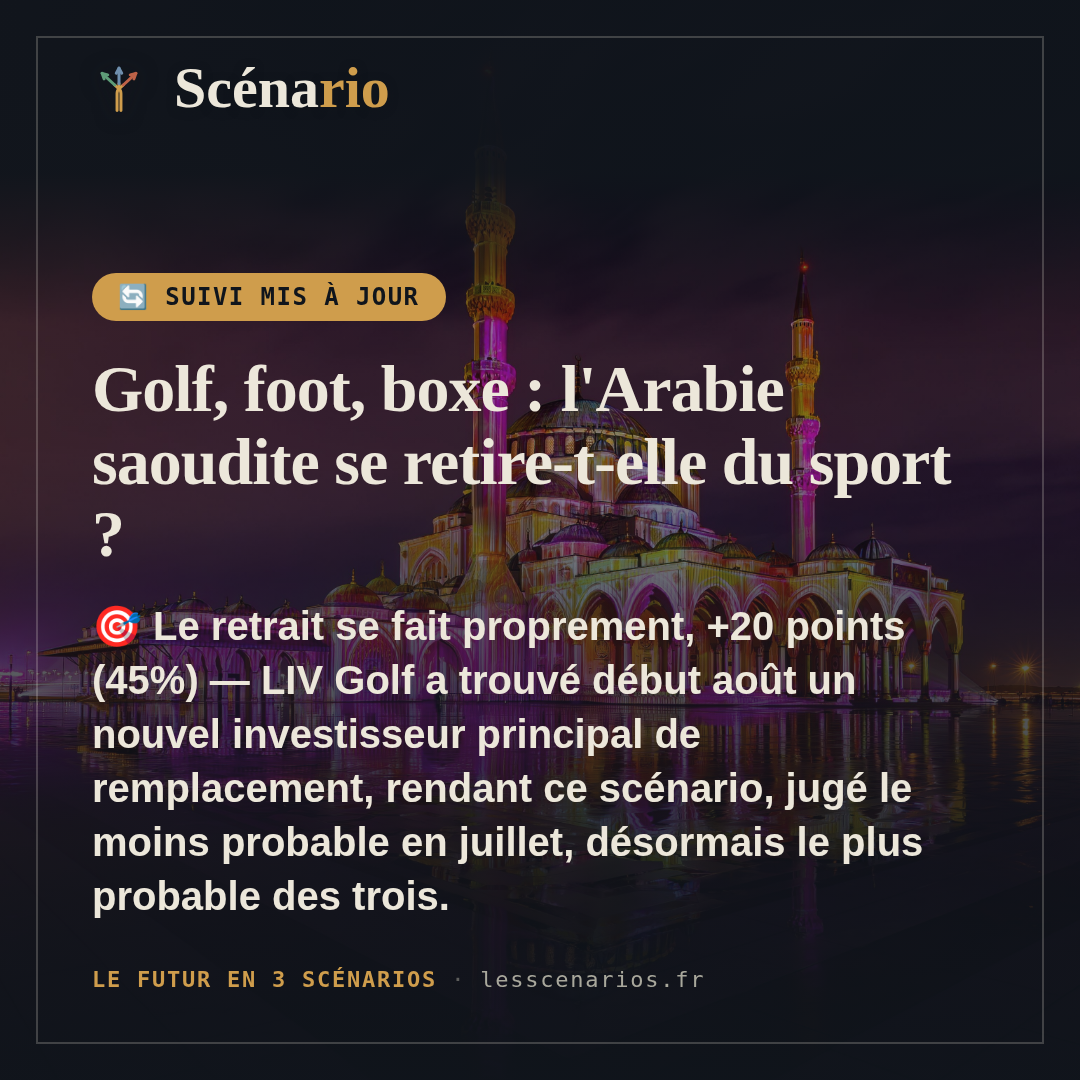
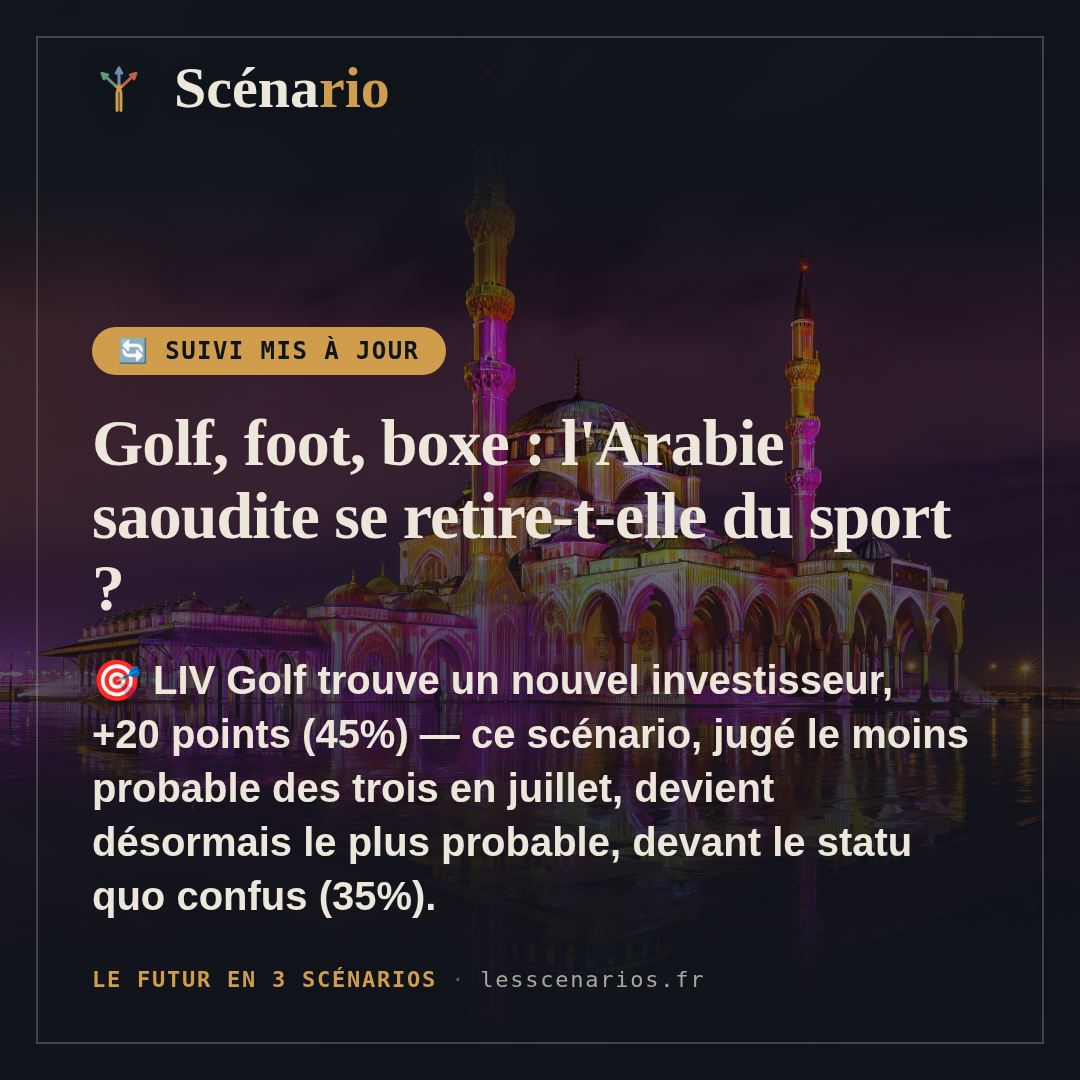
suivi: conclusion reformulée pour démarrer par le fait concret
Retour utilisateur : ouvrir la conclusion par le titre du scénario
lui-même ('Le retrait se fait proprement') reste incompréhensible
hors contexte, même si ce n'est pas l'étiquette de catégorie brute
déjà proscrite le 14 août. Corrigé sur suivi/arabie-saoudite-sport.html
et l'item feed-suivi.xml correspondant (comments/description),
image régénérée en conséquence. Règle documentée dans
docs/ARCHITECTURE.md et répercutée dans
docs/routine-detection-prompt.md pour les prochains passages.

docs: bug filterDateFrom/filterDateTo identiques sur RSS SUIVI/PUB

Les deux bornes de date des modules RSS SUIVI (id 30) et RSS PUB
(id 58) avaient été mises à la même formule le 15 août, créant un
intervalle de largeur nulle (comparaison datetime exacte) qui bloque
silencieusement tous les items. Fix documenté : filterDateTo passe de
addDays(now;-1) à now (retrait du -1 seulement), à appliquer à la main
côté Make sur les deux modules.

Claude-Session: https://claude.ai/code/session_01D2nS1gLX5PNp2scy18i4Cd

Changed region(s): [[0.0611, 0.2444, 0.9167, 0.8556]]

diff --git a/suivi/arabie-saoudite-sport.html b/suivi/arabie-saoudite-sport.html
@@ -354,7 +354,7 @@
         </div>
         <div class="conclusion">
           <span class="conclusion-label">Conclusion vs V0</span>
-          <p><strong>🎯 Le retrait se fait proprement, +20 points (45%)</strong> — l'accord trouvé début août par LIV Golf pour un nouvel investisseur principal de remplacement rend ce scénario, jugé le moins probable en juillet, désormais le plus probable des trois, devant le statu quo confus (35%) ; nuance : l'identité de l'investisseur et le montant exact ne sont pas encore rendus publics, rien n'est formellement signé.</p>
+          <p><strong>🎯 LIV Golf trouve un nouvel investisseur, +20 points (45%)</strong> — l'accord annoncé début août (clôture visée en septembre) rend ce scénario, jugé le moins probable des trois en juillet, désormais le plus probable, devant le statu quo confus (35%) ; nuance : l'identité de l'investisseur et le montant exact ne sont pas encore rendus publics, rien n'est formellement signé.</p>
         </div>
         <p class="sources-note">Sources : <a href="https://www.skysports.com/golf/news/12176/13570123/liv-golf-reaches-agreement-with-new-lead-investor-after-saudi-pif-withdrew-funding-from-breakaway-league" target="_blank" rel="noopener noreferrer">Sky Sports ↗</a>, <a href="https://www.aljazeera.com/sports/2026/8/5/liv-golf-secures-lead-investor-for-player-driven-life-after-saudi-future" target="_blank" rel="noopener noreferrer">Al Jazeera ↗</a>, <a href="https://www.forbes.com/sites/break80/2026/08/05/liv-ceo-scott-oneil-says-liv-golf-has-secured-new-investor/" target="_blank" rel="noopener noreferrer">Forbes ↗</a>, <a href="https://www.proboxing-fans.com/alalshikh-denies-pif-spending-slowdown-in-boxing/" target="_blank" rel="noopener noreferrer">Proboxing-fans ↗</a></p>
         </div>

diff --git a/docs/routine-detection-prompt.md b/docs/routine-detection-prompt.md
@@ -35,7 +35,7 @@ Vérification des sujets à suivre pour le site Scénario (lesscenarios.fr, dép
    - Construire la liste des sujets **éligibles** parmi ceux marqués ⚠ aux points 2 et 3 : écart ≥ 20 points sur au moins un scénario, **ET dont le point de référence a plus de 10 jours** (date de la dernière version publiée pour un suivi actif, date de l'édition d'origine pour une entrée du journal) — **jamais un sujet dont le point de référence date de moins de 10 jours**, pour laisser le temps à un développement de se confirmer plutôt que de réagir à un pic de bruit médiatique.
    - Si la liste éligible est vide : ne rien publier, comportement inchangé (voir point 5).
    - Si elle contient un ou plusieurs sujets : choisir **un seul**, le plus crédible (qualité et croisement des sources, importance réelle du développement pour le sujet — pas seulement l'écart en points le plus large), et pour celui-là seulement :
-     - **Suivi actif** : ajouter une nouvelle version à `suivi/{sujet}.html` en suivant exactement la marche à suivre habituelle (voir `docs/ARCHITECTURE.md`, section « Pages de suivi par sujet ») — cartes `.mini-scenarios` avec `.evo-current`/`.evo-arrow`/`.evo-prev`, conclusion qui nomme le scénario le plus volatil avec son écart en points — jamais la seule étiquette de catégorie (favorable/stable/dégradé) en tête sans dire ce qu'elle recouvre concrètement, ex. "stable" seul ne veut rien dire, voir `docs/ARCHITECTURE.md` § « Pages de suivi par sujet » —, 2 à 4 sources réellement consultées (liens réels, jamais inventés) ; mettre à jour le badge et la date sur `archives.html` ; mettre à jour l'entrée dans « Suivis actifs » de `docs/sujets-a-suivre.md` (dernière vérification, prochaine échéance) ; ajouter un item dans `feed-suivi.xml`.
+     - **Suivi actif** : ajouter une nouvelle version à `suivi/{sujet}.html` en suivant exactement la marche à suivre habituelle (voir `docs/ARCHITECTURE.md`, section « Pages de suivi par sujet ») — cartes `.mini-scenarios` avec `.evo-current`/`.evo-arrow`/`.evo-prev`, conclusion qui nomme le scénario le plus volatil avec son écart en points. **La phrase de conclusion doit toujours démarrer par le fait concret** (l'événement réel qui explique le mouvement, ex. « LIV Golf a trouvé un nouvel investisseur principal »), **jamais par l'étiquette de catégorie brute** (favorable/stable/dégradé — "stable" seul ne veut rien dire) **ni par le titre du scénario lui-même** (souvent trop abstrait hors contexte, ex. « Le retrait se fait proprement » ne se comprend pas seul — affiné le 15 août après retour utilisateur) : nommer le scénario concerné et son écart en points seulement après avoir posé le fait, voir `docs/ARCHITECTURE.md` § « Pages de suivi par sujet » pour l'exemple complet ; 2 à 4 sources réellement consultées (liens réels, jamais inventés) ; mettre à jour le badge et la date sur `archives.html` ; mettre à jour l'entrée dans « Suivis actifs » de `docs/sujets-a-suivre.md` (dernière vérification, prochaine échéance) ; ajouter un item dans `feed-suivi.xml`.
      - **Entrée du journal sans page de suivi** : créer `suivi/{sujet}.html` à partir de `suivi/_gabarit.html` avec V0 (rappel de l'édition d'origine, mêmes 3 scénarios et pourcentages) + V1 (réestimation du jour), même rigueur que ci-dessus ; ajouter le badge + `data-last-update` sur l'entrée correspondante de `archives.html` ; ajouter le sujet aux « Suivis actifs » de `docs/sujets-a-suivre.md` et marquer sa ligne dans le journal (« a désormais sa page de suivi dédiée ») ; ajouter un item dans `feed-suivi.xml`.
      - **La clôture (🏁, voir point 2bis) n'est jamais publiée automatiquement**, même si le sujet retenu ci-dessus a par ailleurs un signal de clôture possible — seulement la signaler dans le message final (point 5). C'est le seul geste qui reste réservé à l'utilisateur, en session.
      - **L'item `feed-suivi.xml` inclut une balise `<enclosure>`** pointant vers une image générée avec le logo + un tag "🔄 Suivi mis à jour" + le sujet + la conclusion, composée sur `assets/social/topic-images/suivi-{sujet}.jpg` (mis à jour le 14 août — voir `docs/ARCHITECTURE.md` § « Annonce des mises à jour sur Telegram/LinkedIn » pour la commande exacte et le gabarit) : `python3 scripts/social/generate_suivi_image.py --data {topic+conclusion} --output assets/social/suivi/{sujet}-v{N}.png --template scripts/social/suivi-template.html --photo assets/social/topic-images/suivi-{sujet}.jpg` — uniquement si cette photo source existe déjà pour le sujet (créée à la création de la page de suivi, jamais choisie à cette étape) ; sinon omettre `<enclosure>` entièrement, jamais bloquant.

diff --git a/docs/ARCHITECTURE.md b/docs/ARCHITECTURE.md
@@ -898,9 +898,11 @@ moins prioritaire).
   donc désormais câblé pour l'image sur les 4 réseaux, plus de trou
   structurel.
 
-  **[FAIT le 15 août] Fenêtre de dates "hier uniquement" généralisée à
-  tous les modules `rss:ActionReadArticles`** (RSS SUIVI id 30, et RSS
-  PUB id 58 ci-dessous) — `filterDateFrom` **et** `filterDateTo` =
+  **[FAIT le 15 août, puis CASSÉ par le même changement — bug repéré et
+  corrigé le 15 août également] Fenêtre de dates "hier uniquement"
+  généralisée à tous les modules `rss:ActionReadArticles`** (RSS SUIVI
+  id 30, et RSS PUB id 58 ci-dessous) — `filterDateFrom` **et**
+  `filterDateTo` mis à la **même** formule
   `{{parseDate(formatDate(addDays(now; -1); "YYYY-MM-DD"); "YYYY-MM-DD")}}`
   (les deux bornes sur la veille, pas seulement `filterDateFrom`). Choix
   motivé : ces modules n'ont pas de mémoire entre deux exécutions
@@ -909,6 +911,28 @@ moins prioritaire).
   réseaux deux jours de suite (repli "hier + aujourd'hui" testé mais
   écarté : avec "Maximum number of returned items" = 1, un item resterait
   éligible sur 2 exécutions consécutives).
+
+  **Bug** : `filterDateFrom` et `filterDateTo` avec la **même** formule
+  donnent la **même valeur exacte** (minuit hier, à la milliseconde
+  près) — un intervalle de largeur nulle, pas une journée. Comme la
+  comparaison porte sur un vrai datetime et que le `pubDate` réel d'un
+  item RSS a toujours une heure (ex. `20:00:00 +0200`, jamais
+  `00:00:00`), **aucun item ne peut jamais matcher** : le filtre
+  bloquait silencieusement tout, sur RSS SUIVI comme RSS PUB. Repéré
+  via le module inspector Make (les deux champs affichaient très
+  visiblement la formule identique), pas via un item manquant en
+  sortie — modules bien "stoppés" (0 item), pas en erreur.
+
+  **Fix** : `filterDateTo` seul passe de `addDays(now; -1)` à `now` (on
+  retire juste le `-1`, `filterDateFrom` ne change pas) —
+  `{{parseDate(formatDate(now; "YYYY-MM-DD"); "YYYY-MM-DD")}}` (minuit
+  **aujourd'hui**). L'intervalle devient minuit hier → minuit
+  aujourd'hui, soit exactement les 24h de "hier" en entier, ce qui
+  restaure l'effet voulu (filtre anti-répétition sur la veille) sans
+  revenir à l'ancien souci de fenêtre glissante ouverte. À appliquer à
+  la main dans Make sur les deux modules concernés (RSS SUIVI id 30 et
+  RSS PUB id 58) — seul le champ `Date to` change, `Date from` reste
+  identique sur les deux.
 
   **[FAIT le 15 août] Instagram et Facebook du circuit Daily migrés de
   Buffer vers les modules Make natifs**, à la demande de l'utilisateur
@@ -3756,6 +3780,25 @@ Voir les échanges de session pour le détail, mais en résumé :
   ouvert la page doit comprendre en une seule phrase *pourquoi* il y a
   une mise à jour, sans avoir à deviner ce que "stable" signifie pour
   ce sujet précis.
+
+  **Le titre du scénario lui-même ne doit pas non plus ouvrir la
+  phrase, affiné le 15 août après retour utilisateur** (cas réel :
+  "🎯 Le retrait se fait proprement, +20 points (45%)" jugé tout aussi
+  incompréhensible en tête que l'étiquette brute — le règlement du
+  14 août évitait "stable" seul, mais un titre de scénario reformulé
+  reste souvent trop abstrait hors contexte de sa carte). Toujours
+  ouvrir la phrase par le **fait concret** — l'événement réel qui
+  explique le mouvement (ex. "LIV Golf a trouvé un nouvel investisseur
+  principal") — puis seulement ensuite nommer le scénario concerné et
+  son écart en points, jamais l'inverse. Corrigé rétroactivement sur
+  `suivi/arabie-saoudite-sport.html` et l'item correspondant de
+  `feed-suivi.xml` le jour même : "🎯 LIV Golf trouve un nouvel
+  investisseur, +20 points (45%)" plutôt que "🎯 Le retrait se fait
+  proprement, +20 points (45%)". Même périmètre que la règle du
+  14 août (page ET `<comments>`/`<description>` de `feed-suivi.xml`,
+  donc l'image générée) — les titres de `.mini-scenario-title` sur les
+  cartes individuelles restent inchangés, cette règle ne vaut que pour
+  la phrase de conclusion/verdict.
 
   Mettre à jour le badge et la date sur `archives.html` ; mettre à jour
   aussi l'entrée correspondante (ou la créer) dans la section « Suivis
